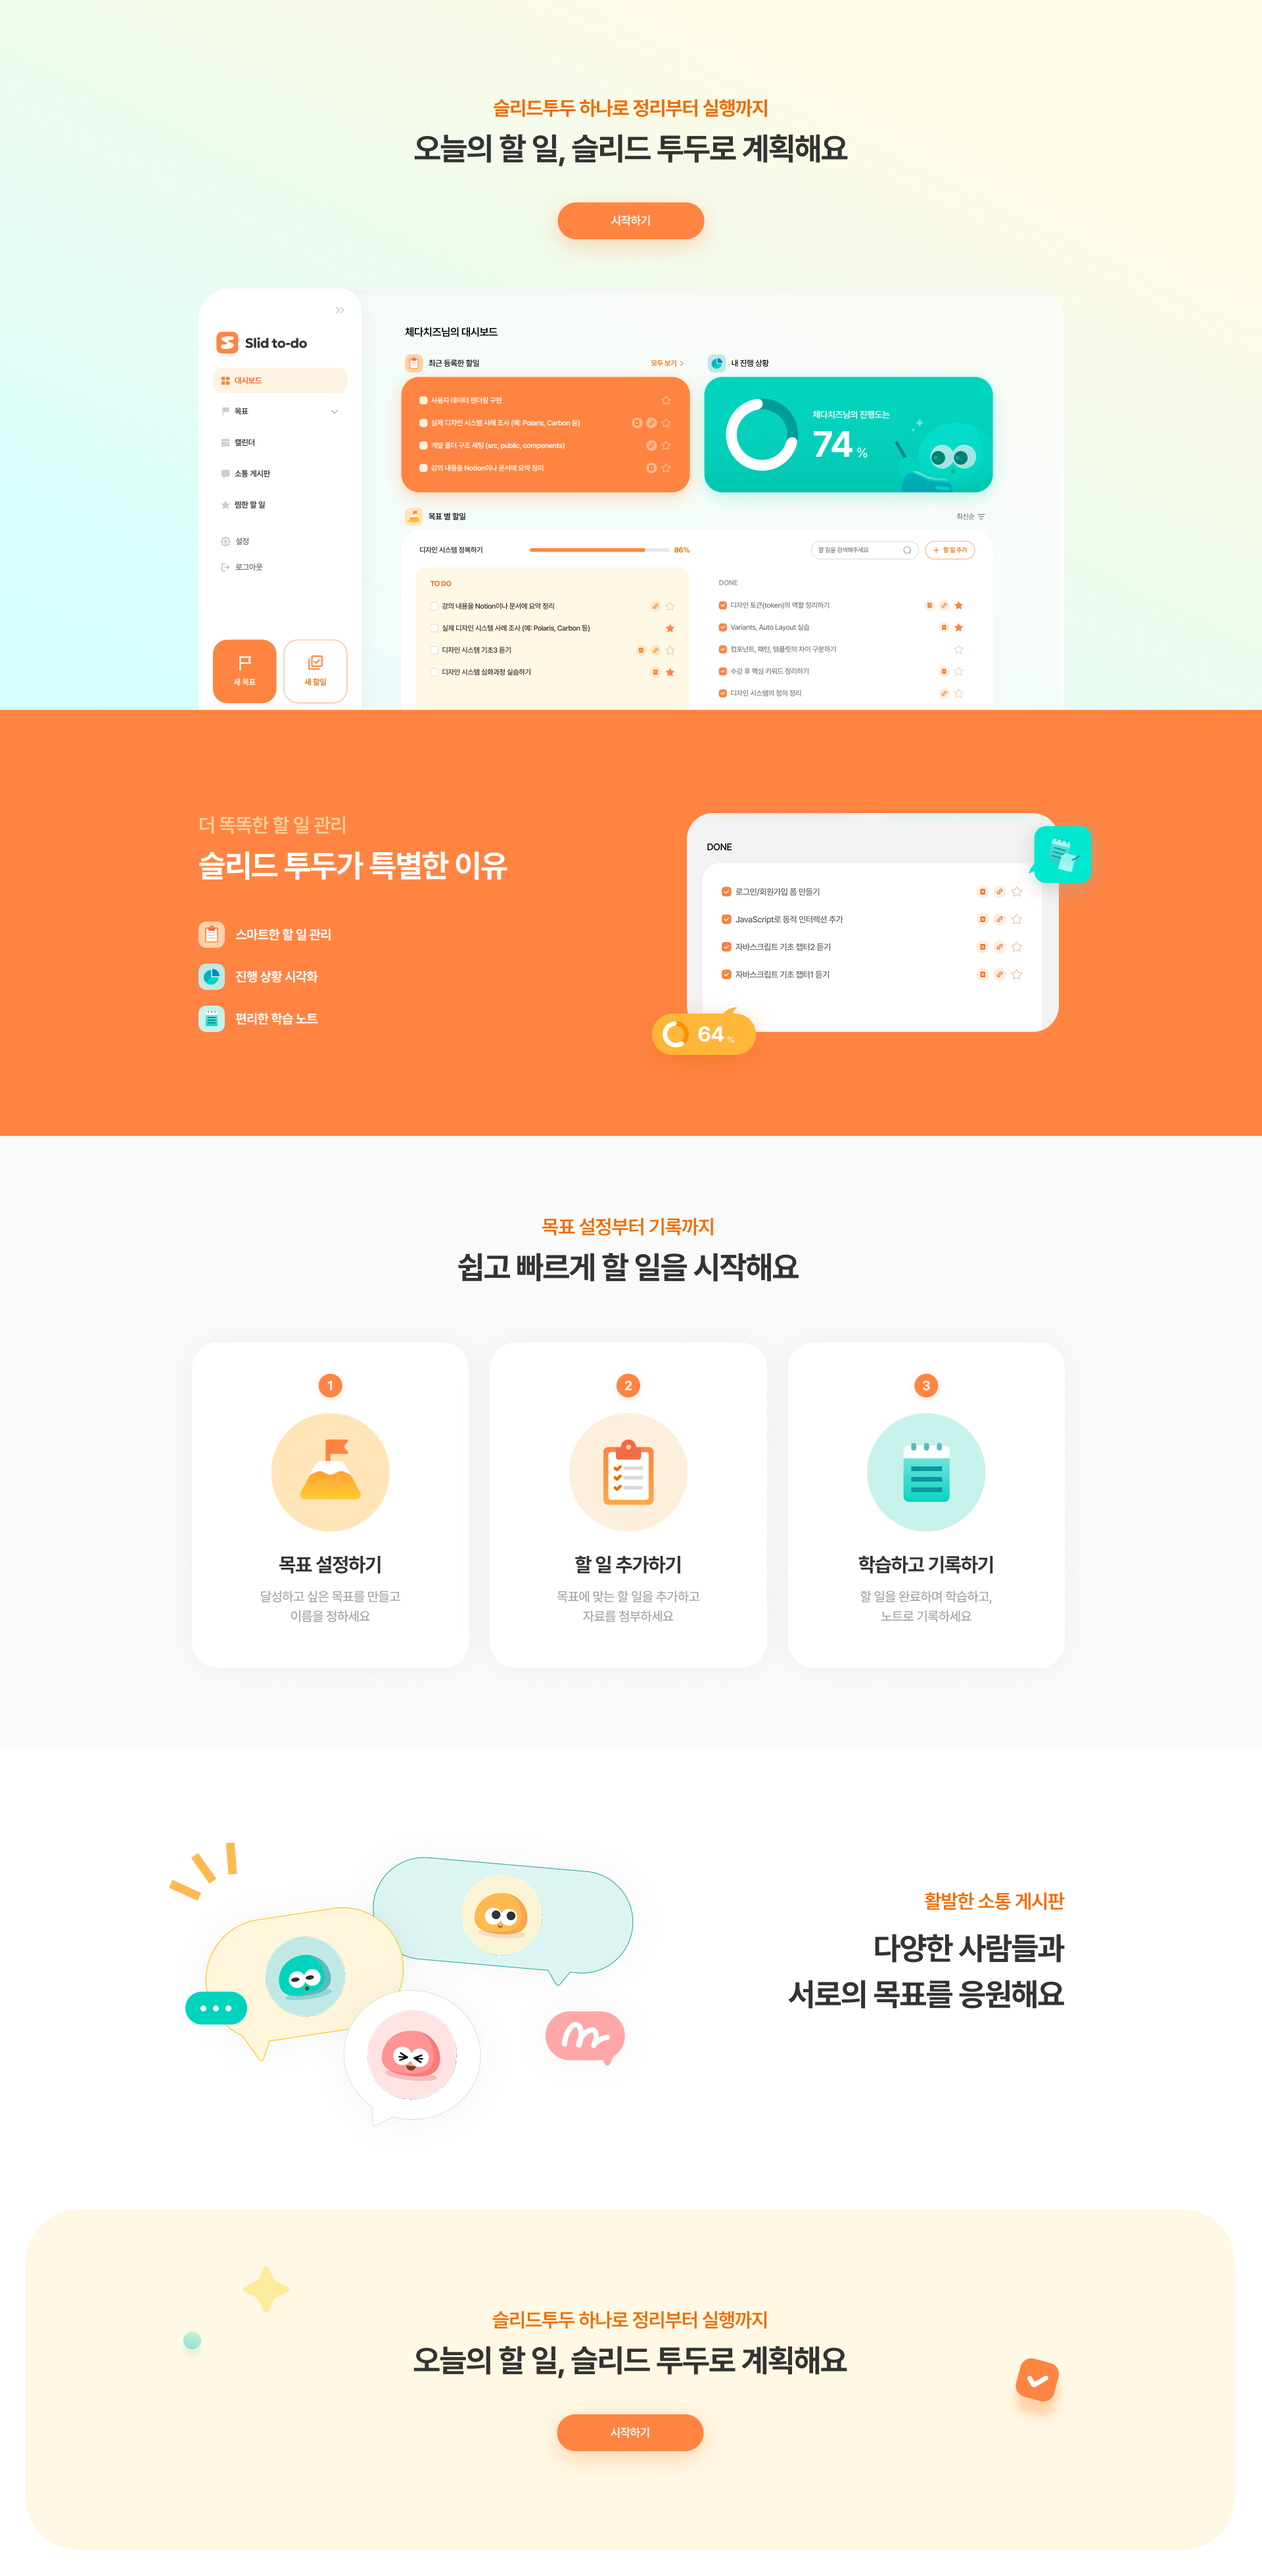
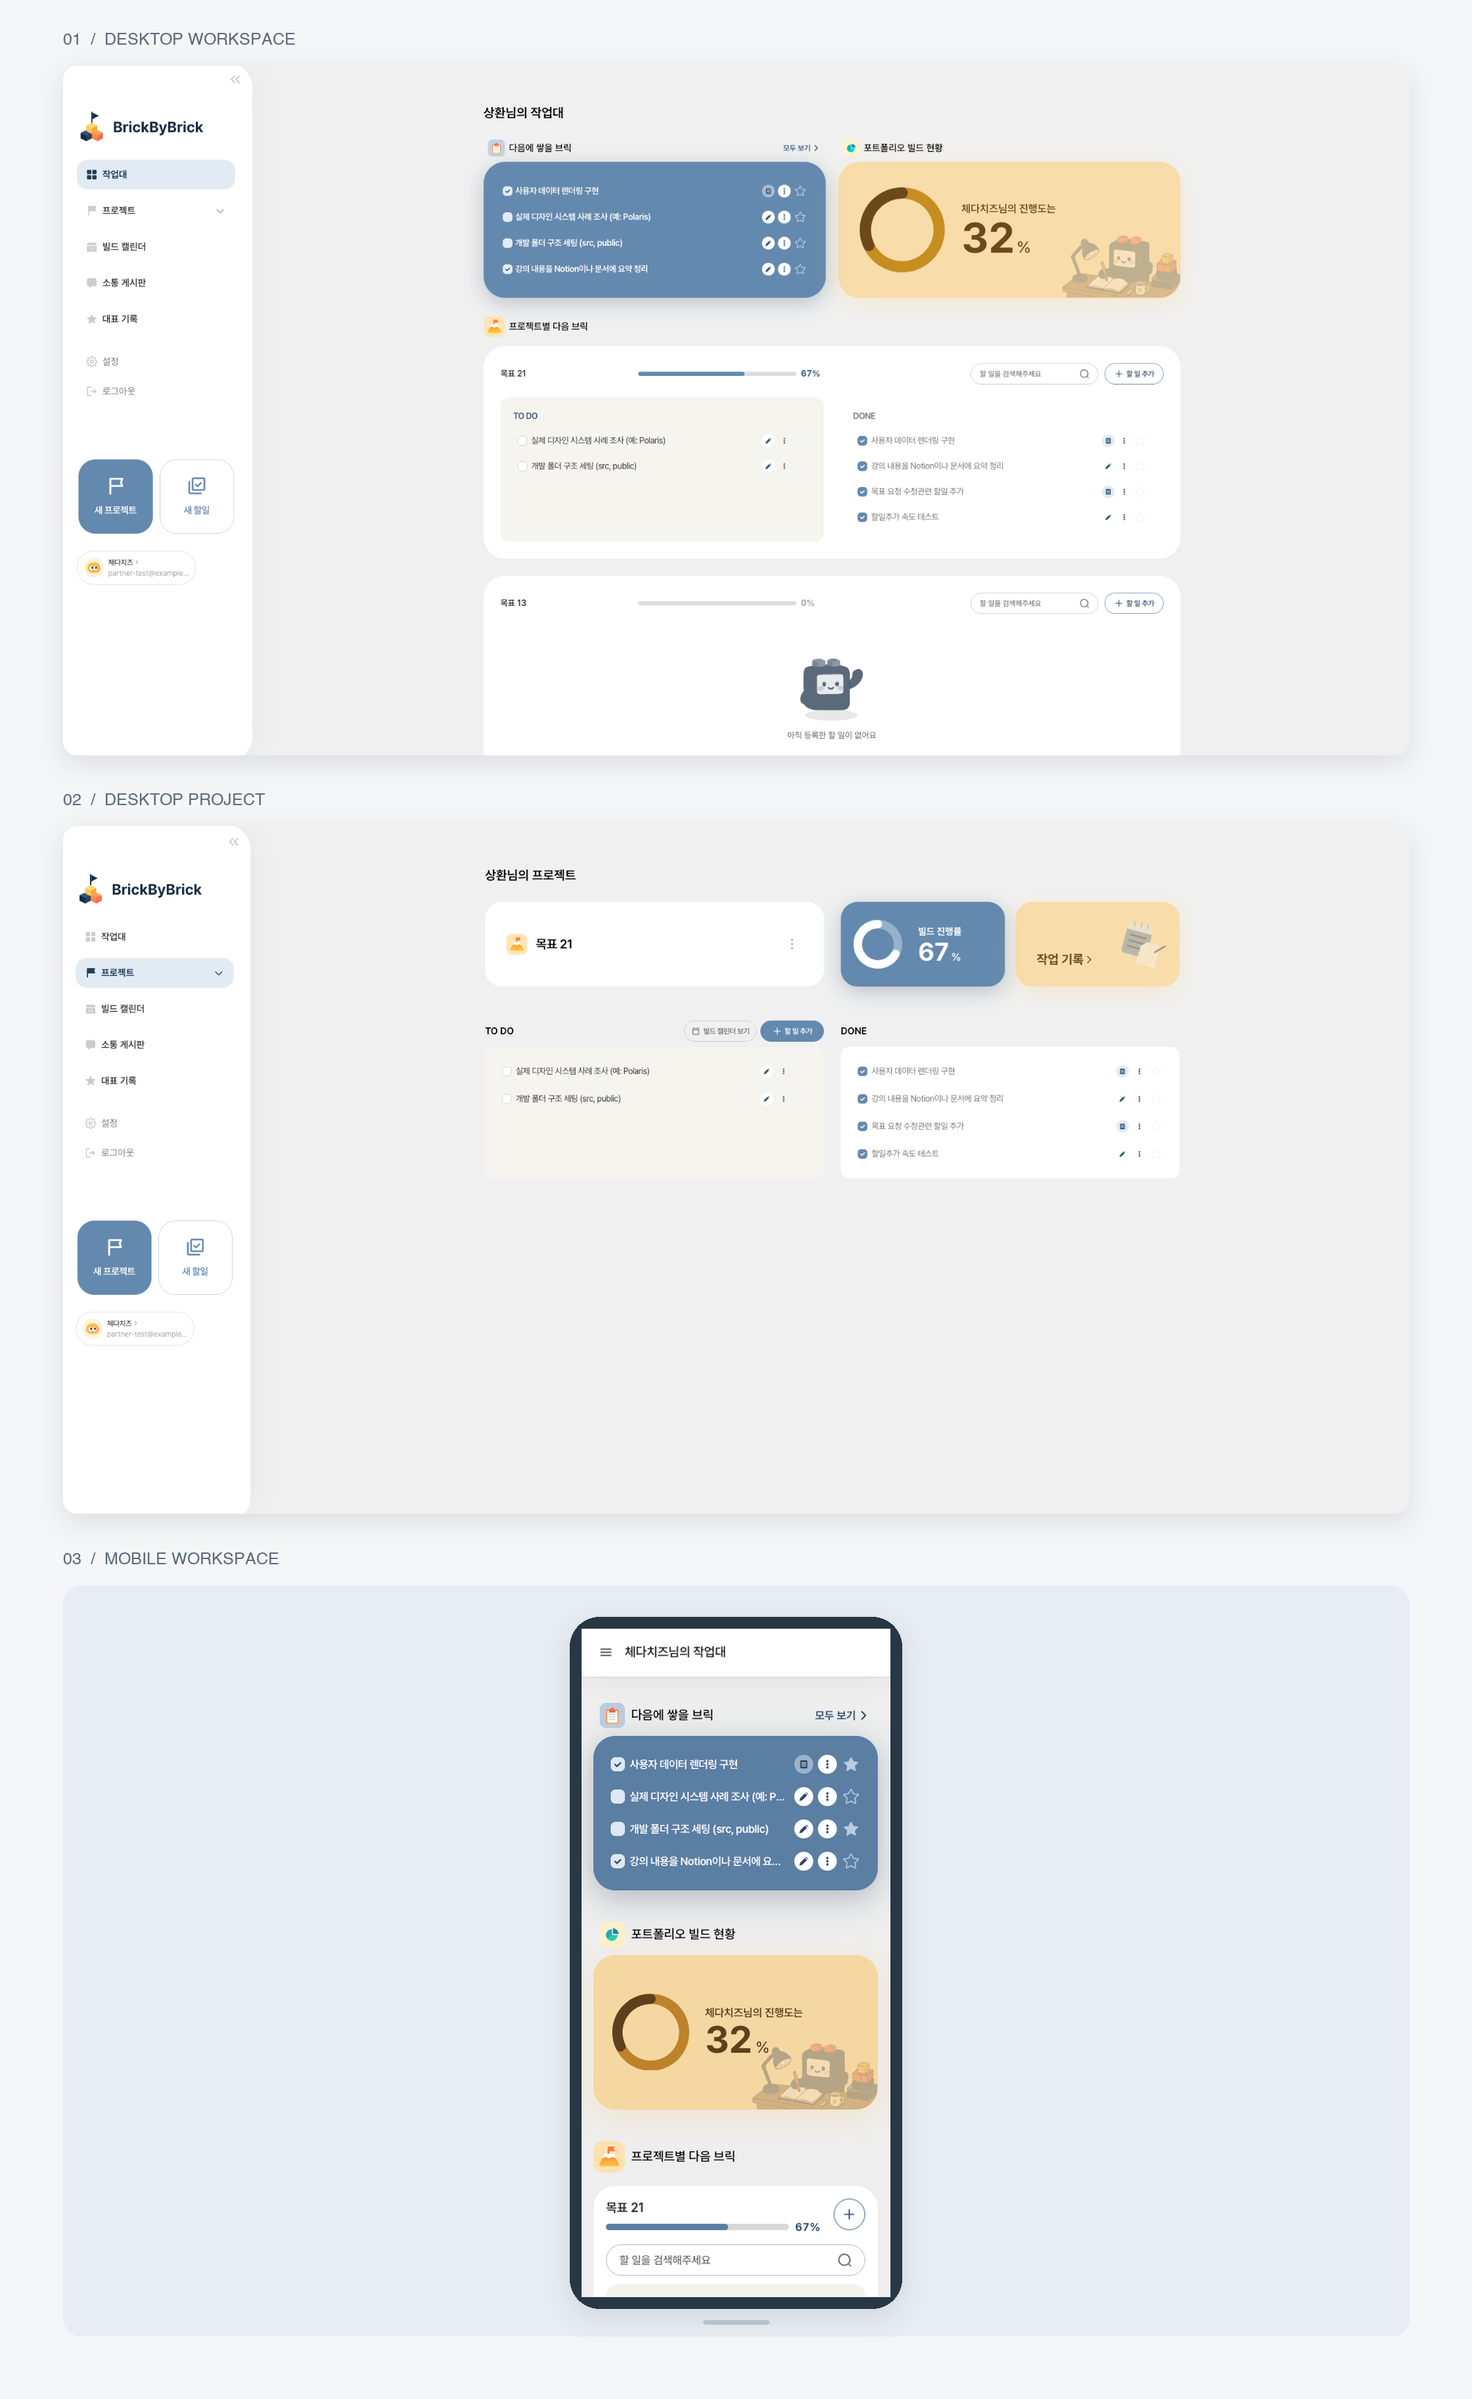
할 일 관리 웹서비스 구축 상세 내용 수정

diff --git a/src/pages/about.js b/src/pages/about.js
@@ -251,9 +251,9 @@ const AboutPage = () => {
             </div>
             <div className="experience-item__desc">
               금융·커머스·교육·공공 등 다양한 웹 프로젝트에서 반응형 UI, 웹
-              접근성, 공통 UI 구축을 수행했습니다. 현대면세점 프로젝트에서는
-              PL로서 3인 팀의 업무와 일정을 조율하고 서비스 오픈까지
-              담당했습니다.
+              접근성, 공통 UI 구축을 수행했습니다. <br /> 현대면세점
+              프로젝트에서는 PL로서 3인 팀의 업무와 일정을 조율하고 서비스
+              오픈까지 담당했습니다.
             </div>
           </li>
 
